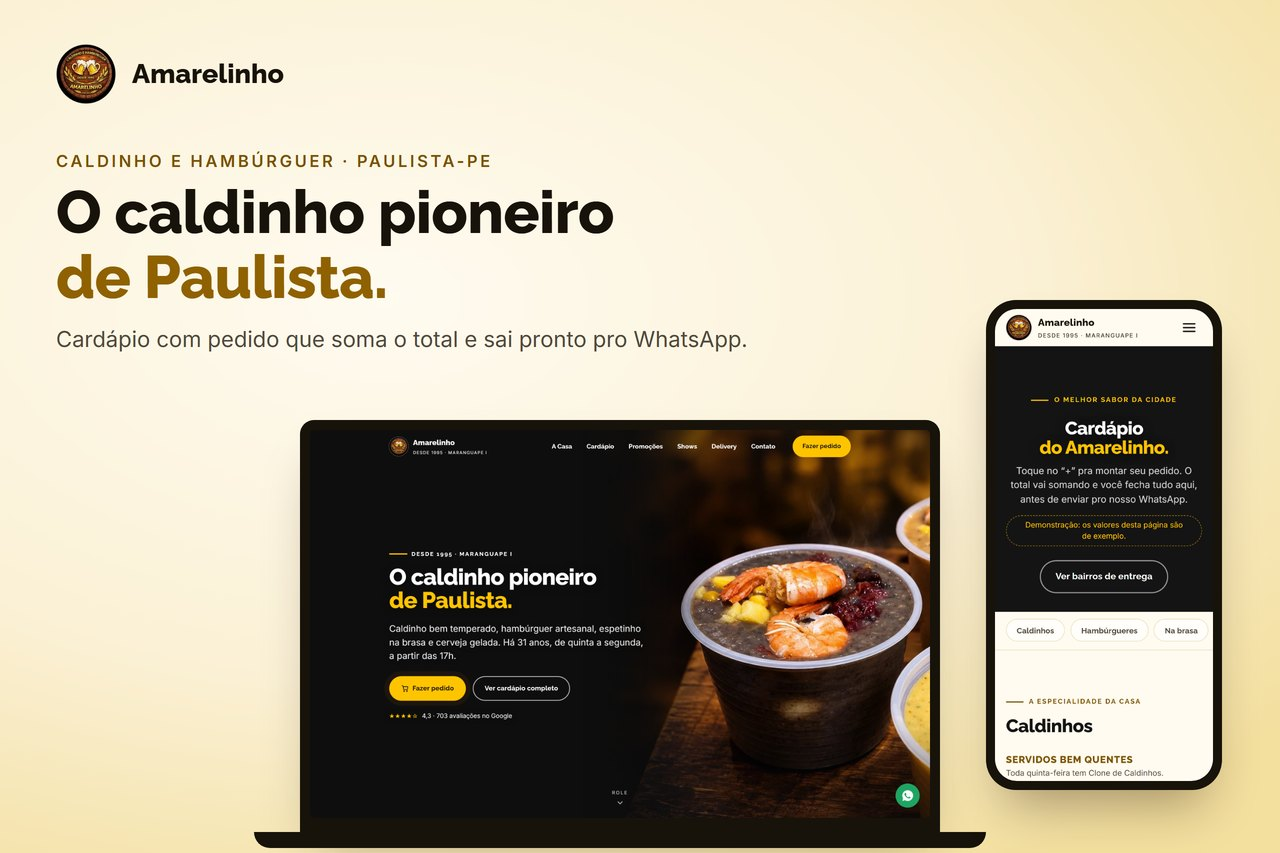
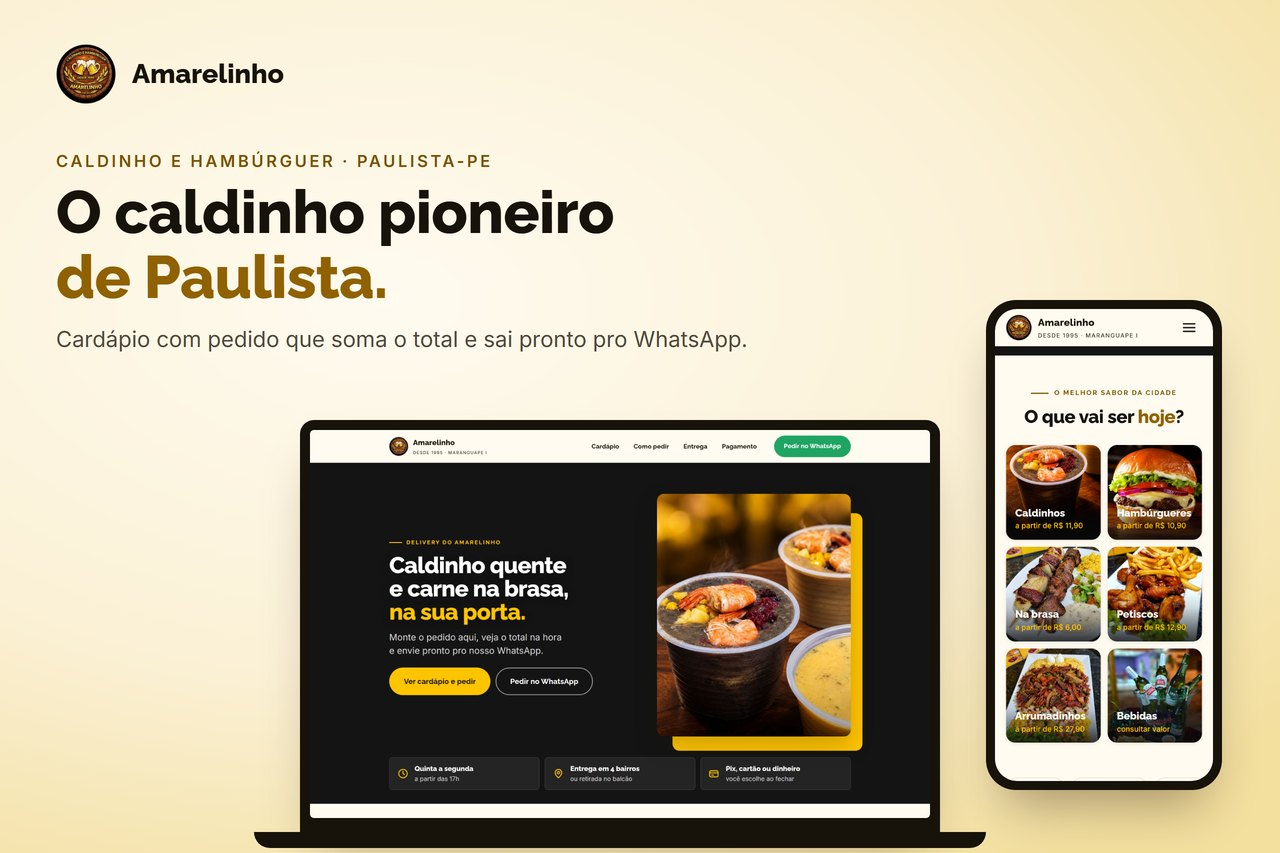
Portfólio: capa nova do Amarelinho, com a página de cardápio atual

Changed region(s): [[0.2188, 0.3962, 0.9688, 0.9754]]

diff --git a/index.html b/index.html
@@ -335,7 +335,7 @@
       <div class="projects-grid projects-grid-all" id="projectsGrid">
         <div class="project-card reveal" data-categoria="comida" data-destaque>
           <div class="project-image">
-            <img src="assets/images/caldinho-amarelinho-1280.jpg?v=1" srcset="assets/images/caldinho-amarelinho-720.jpg?v=1 720w, assets/images/caldinho-amarelinho-1280.jpg?v=1 1280w" sizes="(max-width: 640px) 90vw, 360px" alt="Site Caldinho e Hambúrguer Amarelinho no computador e no celular" loading="lazy" onerror="this.onerror=null;this.src='assets/images/placeholder.svg';">
+            <img src="assets/images/caldinho-amarelinho-1280.jpg?v=2" srcset="assets/images/caldinho-amarelinho-720.jpg?v=2 720w, assets/images/caldinho-amarelinho-1280.jpg?v=2 1280w" sizes="(max-width: 640px) 90vw, 360px" alt="Site Caldinho e Hambúrguer Amarelinho no computador e no celular" loading="lazy" onerror="this.onerror=null;this.src='assets/images/placeholder.svg';">
             <div class="project-image-overlay"></div>
           </div>
           <div class="project-content">
